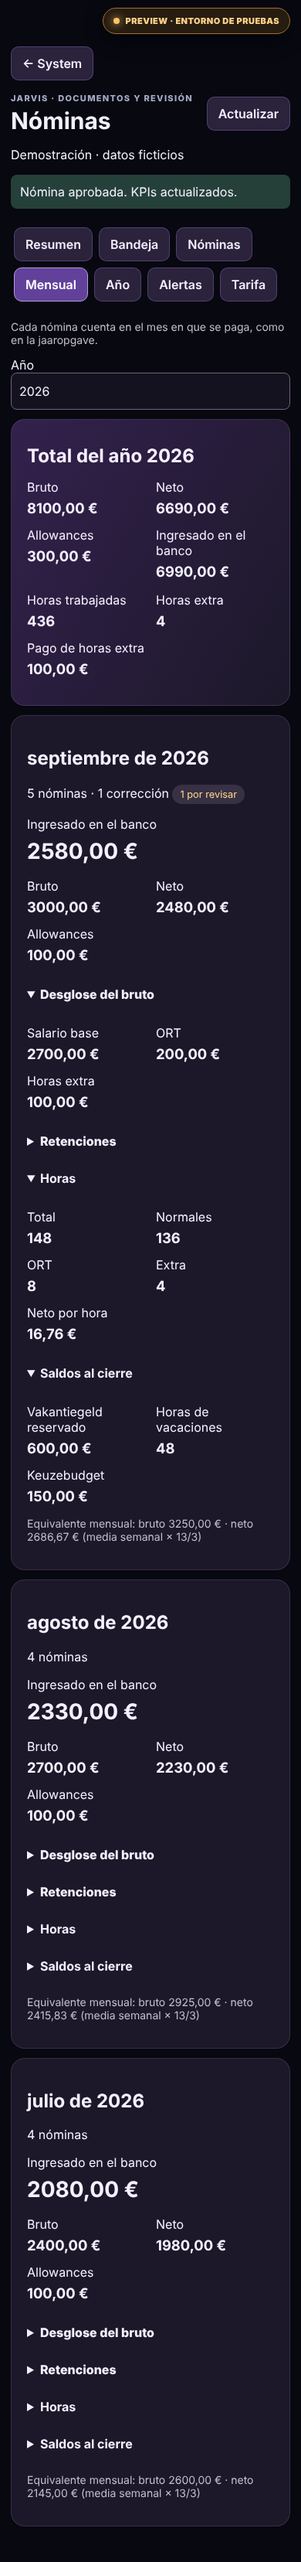
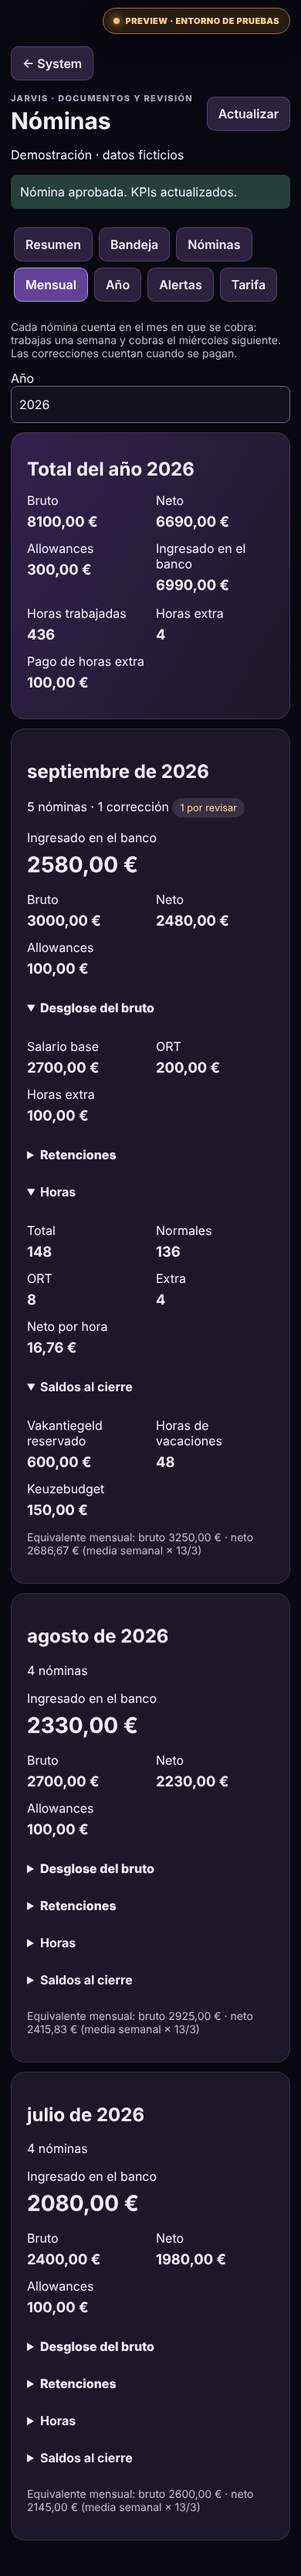
Nóminas 2.8.2: mes por fecha de cobro, correcciones agrupadas, pendientes visibles
- Regla de cobro de Renzo: semana trabajada -> miércoles siguiente (ISO lunes + 9).
  Correcciones: su fecha de pago. Front (payDate) y migración de vistas (ref_date).
- A: correcciones como "Pago adicional" bajo su semana.
- B: resumen con neto confirmado, pendientes sin contar y total con pendientes.
- C: retención por nómina y aviso de tarifa especial en pagos extra.
- Tests: unit (payDate, yearSummary, groupByWeek, taxRate) y réplica PG17 de la migración.

Claude-Session: https://claude.ai/code/session_019zuKrwJHxN8GjEhtNQdRS7

diff --git a/payroll.js b/payroll.js
@@ -5,6 +5,48 @@ const date = value => !value ? 'Sin fecha' : Number.isNaN(new Date(value).valueO
 export const percent = value => value == null ? 'Sin datos' : new Intl.NumberFormat('es-ES',{style:'percent',maximumFractionDigits:2}).format(Number(value));
 export const monthlyRows = (rows, year) => rows.filter(m=>String(m.mes).slice(0,4)===String(year)).sort((a,b)=>String(b.mes).localeCompare(String(a.mes)));
 export const nonzeroRows = rows => rows.filter(([,value])=>value!=null&&Number(value)!==0);
+// Regla de cobro de Renzo: trabaja una semana (ISO) y cobra el miércoles siguiente (lunes ISO + 9 días).
+export function isoWednesdayAfter(year, week){
+ const jan4=new Date(Date.UTC(Number(year),0,4)), d=new Date(jan4);
+ d.setUTCDate(jan4.getUTCDate()-((jan4.getUTCDay()+6)%7)+(Number(week)-1)*7+9);
+ return d.toISOString().slice(0,10);
+}
+// Igual que ref_date en las vistas (migración 20261010030000): nómina semanal normal -> regla; corrección -> su fecha de pago.
+export function payDate(p){
+ if(!p)return null;
+ const weekly=p.period_type==='weekly'&&Number(p.period_year)>0&&Number(p.period_number)>=1&&Number(p.period_number)<=53;
+ const rule=weekly?isoWednesdayAfter(p.period_year,p.period_number):null;
+ if(rule&&!p.is_correction)return rule;
+ const own=p.payment_date?String(p.payment_date).slice(0,10):null;
+ return own||rule||(p.period_end?String(p.period_end).slice(0,10):null)||(p.document_date?String(p.document_date).slice(0,10):null);
+}
+export const isConfirmed = p => ['approved','not_required'].includes(p.review_status)&&p.validation_status!=='failed';
+export const isPendingReview = p => p.review_status==='pending'&&p.validation_status!=='failed';
+export function taxRate(p){
+ const base=Number(p?.loon_voor_loonheffing??p?.taxable_income??p?.gross_salary);
+ return base>0&&p?.loonheffing!=null?Math.round(Number(p.loonheffing)/base*10000)/10000:null;
+}
+// Totales del año según el año de COBRO. Separa confirmadas y pendientes de revisión (no inventa: sin datos -> null).
+export function yearSummary(payslips, year){
+ const inYear=payslips.filter(p=>String(payDate(p)||'').slice(0,4)===String(year)&&p.validation_status!=='failed'&&p.review_status!=='rejected');
+ const sum=(list,key)=>list.length?Math.round(list.reduce((n,p)=>n+Number(p[key]||0),0)*100)/100:null;
+ const confirmed=inYear.filter(isConfirmed), pending=inYear.filter(isPendingReview), normal=confirmed.filter(p=>!p.is_correction);
+ const gross=sum(confirmed,'gross_salary'), tax=sum(confirmed,'loonheffing'), normalHours=sum(normal,'worked_hours');
+ return {
+  confirmed:{count:confirmed.length,net:sum(confirmed,'net_salary'),gross,tax,hours:sum(confirmed,'worked_hours')},
+  pending:{count:pending.length,net:sum(pending,'net_salary'),gross:sum(pending,'gross_salary')},
+  total:{count:confirmed.length+pending.length,net:sum([...confirmed,...pending],'net_salary'),gross:sum([...confirmed,...pending],'gross_salary')},
+  taxRate:gross>0&&tax!=null?Math.round(tax/gross*10000)/10000:null,
+  netPerHour:normalHours>0?Math.round(sum(normal,'net_salary')/normalHours*100)/100:null
+ };
+}
+// Agrupa cada corrección debajo de la nómina normal de la misma semana (si existe).
+export function groupByWeek(payslips){
+ const groups=[], byWeek=new Map();
+ for(const p of payslips.filter(p=>!p.is_correction)){const g={main:p,extras:[]};groups.push(g);if(p.period_label&&!byWeek.has(p.period_label))byWeek.set(p.period_label,g);}
+ for(const p of payslips.filter(p=>p.is_correction)){const g=byWeek.get(p.corrected_period_ref||p.period_label);if(g)g.extras.push(p);else groups.push({main:p,extras:[]});}
+ return groups;
+}
 export function monthlyTotals(rows){
  return Object.fromEntries(['bruto','neto','allowances_netas','cobrado_banco','horas_trabajadas','horas_extra','pago_horas_extra'].map(key=>[key,rows.length&&rows.every(row=>row[key]!=null)?Math.round(rows.reduce((sum,row)=>sum+Number(row[key]),0)*100)/100:null]));
 }
@@ -44,6 +86,7 @@ export function reviewChanges(original, values){
  }
  return changes;
 }
+const payLabel = p => {const d=payDate(p);return d?new Intl.DateTimeFormat('es-ES',{weekday:'short',day:'numeric',month:'short',timeZone:'UTC'}).format(new Date(d+'T00:00:00Z')):'Sin fecha';};
 const chip = value => `<span class="pay-chip pay-${esc(value)}">${esc(labels[value]||value||'Sin estado')}</span>`;
 const empty = '<div class="card"><h2>Aún no hay nóminas</h2><p>Envía el PDF de tu nómina a Jarvis en Telegram y aparecerá aquí en menos de un minuto.</p></div>';
 const uuid = /^[0-9a-f]{8}-[0-9a-f]{4}-[0-9a-f]{4}-[0-9a-f]{4}-[0-9a-f]{12}$/i;
@@ -110,10 +153,10 @@ export function mountPayroll(root, db, getUser, go){
   if(!alive(uid,e)||seq!==detailEpoch)return;loadingDetail=false;render();
  }
  function stats(){
-  const y=all('ytd').find(x=>String(x.year)===year);
+  const y=yearSummary(all('payslips'),year);
   const last=all('payslips')[0], weeks=all('confirmed').filter(x=>x.period_type==='weekly').slice(0,12).reverse();
   const points=weeks.map((p,i)=>`${20+i*(560/Math.max(1,weeks.length-1))},${140-(Number(p.net_salary)||0)/Math.max(1,...weeks.map(x=>Math.abs(Number(x.net_salary)||0)))*100}`).join(' ');
-  return `<div class="card pay-hero"><div class="ey">Año ${esc(year)} · solo nóminas confirmadas</div><h2>${money(y?.net_ytd)}</h2><p>Neto del año</p><div class="pay-grid">${[['Bruto',money(y?.gross_ytd)],['Impuestos',money(y?.tax_ytd)],['Horas',number(y?.hours_ytd)],['Neto / hora',money(y?.effective_net_hourly)]].map(([k,v])=>`<div><small>${k}</small><strong>${v}</strong></div>`).join('')}</div></div>
+  return `<div class="card pay-hero" data-year-summary><div class="ey">Año ${esc(year)} · por fecha de cobro · nóminas confirmadas</div><h2>${money(y.confirmed.net)}</h2><p>Neto confirmado (${esc(number(y.confirmed.count))} nóminas)</p>${y.pending.count?`<p class="pay-pending-note" data-pending-total>Pendientes sin contar: <b>${money(y.pending.net)}</b> neto (${esc(number(y.pending.count))} ${y.pending.count===1?'nómina':'nóminas'} por revisar) · Con pendientes: <b>${money(y.total.net)}</b></p>`:''}<div class="pay-grid">${[['Bruto',money(y.confirmed.gross)],['Impuestos',`${money(y.confirmed.tax)} · ${percent(y.taxRate)}`],['Horas',number(y.confirmed.hours)],['Neto / hora',money(y.netPerHour)]].map(([k,v])=>`<div><small>${k}</small><strong>${v}</strong></div>`).join('')}</div><p class="pay-muted">Cada nómina cuenta cuando se cobra: trabajas una semana y cobras el miércoles siguiente.</p></div>
    <div class="pay-grid">${[['payslips','Por revisar',all('payslips').filter(p=>p.review_status==='pending').length],['alerts','Alertas abiertas',all('anomalies').filter(a=>a.status==='open').length],['inbox','Documentos con error',all('documents').filter(d=>d.status==='failed').length]].map(([t,k,v])=>`<button class="card" data-tab="${t}">${k}<strong>${v}</strong></button>`).join('')}</div>
    <h2>Última nómina</h2>${last?payslipCard(last):empty}<div class="card"><h2>Neto · últimas 12 semanas recibidas</h2>${weeks.length?`<svg viewBox="0 0 600 180" role="img" aria-label="Evolución del salario neto"><polyline fill="none" stroke="#bca2ff" stroke-width="3" points="${points}"/></svg><details><summary>Ver valores del gráfico</summary>${weeks.map(p=>`<p>${esc(p.period_label)}: ${money(p.net_salary)}</p>`).join('')}</details>`:'Sin datos confirmados'}</div>
    <h2>Evolución mensual</h2>${all('monthly').filter(m=>String(m.month).startsWith(year)).map(m=>`<div class="card"><b>${esc(date(m.month))}</b><div class="pay-grid"><span>Bruto ${money(m.gross)}</span><span>Neto ${money(m.net)}</span><span>Impuestos ${money(m.tax)}</span><span>${number(m.hours)} horas</span></div></div>`).join('')||'<p>Sin datos mensuales confirmados.</p>'}`;
@@ -125,12 +168,12 @@ export function mountPayroll(root, db, getUser, go){
   const grid=rows=>`<dl class="pay-grid pay-month-metrics">${rows.map(([label,value])=>`<div><dt>${esc(label)}</dt><dd>${esc(value)}</dd></div>`).join('')}</dl>`;
   const amounts=rows=>grid(rows.map(([label,value])=>[label,money(value)]));
   const fold=(title,content,index)=>`<div class="pay-month-desktop"><h3>${esc(title)}</h3>${content}</div><details class="pay-month-mobile" ${index===0?'open':''}><summary>${esc(title)}</summary>${content}</details>`;
-  return `<section class="pay-monthly"><p class="pay-muted">Cada nómina cuenta en el mes en que se paga, como en la jaaropgave.</p>${years.length?`<label>Año <select data-monthly-year>${years.map(y=>`<option value="${esc(y)}" ${y===monthlyYear?'selected':''}>${esc(y)}</option>`).join('')}</select></label>`:''}
+  return `<section class="pay-monthly"><p class="pay-muted">Cada nómina cuenta en el mes en que se cobra: trabajas una semana y cobras el miércoles siguiente. Las correcciones cuentan cuando se pagan.</p>${years.length?`<label>Año <select data-monthly-year>${years.map(y=>`<option value="${esc(y)}" ${y===monthlyYear?'selected':''}>${esc(y)}</option>`).join('')}</select></label>`:''}
    ${!months.length?`<div class="card">${errors.monthly_nl?'No se pudieron cargar los datos mensuales. Pulsa Actualizar para reintentar.':'Sin datos mensuales.'}</div>`:`<article class="card pay-hero" data-monthly-total><h2>Total del año ${esc(monthlyYear)}</h2>${amounts([['Bruto',totals.bruto],['Neto',totals.neto],['Allowances',totals.allowances_netas],['Ingresado en el banco',totals.cobrado_banco]])}${grid([['Horas trabajadas',number(totals.horas_trabajadas)],['Horas extra',number(totals.horas_extra)],['Pago de horas extra',money(totals.pago_horas_extra)]])}</article>
    ${months.map((m,index)=>`<article class="card" data-month="${esc(m.mes)}"><h2>${esc(new Intl.DateTimeFormat('es-ES',{month:'long',year:'numeric',timeZone:'UTC'}).format(new Date(m.mes)))}</h2><p>${esc(number(m.pagos))} nóminas${Number(m.correcciones)>0?` · ${esc(number(m.correcciones))} ${Number(m.correcciones)===1?'corrección':'correcciones'}`:''} ${Number(m.pendientes_revision)>0?`<span class="pay-chip pay-pending">${esc(number(m.pendientes_revision))} por revisar</span>`:''}</p>
     <div class="pay-bank"><span>Ingresado en el banco</span><strong>${esc(money(m.cobrado_banco))}</strong></div>${amounts([['Bruto',m.bruto],['Neto',m.neto],['Allowances',m.allowances_netas]])}
     <details><summary>Desglose del bruto</summary>${amounts(nonzeroRows([['Salario base',m.salario_base],['ORT',m.toeslagen],['Horas extra',m.pago_horas_extra],['Feestdagen',m.feestdagen],['Vakantiegeld',m.vakantiegeld_pagado],['Vacaciones disfrutadas',m.verlof_pagado],['Baja',m.ziekte_pagado]]))}</details>
-    <details><summary>Retenciones</summary>${amounts([['Loonheffing',m.loonheffing],['Pensioen',m.pensioen],['Premies',m.premies]])}${grid([['Tipo de retención',percent(m.tipo_retencion)]])}</details>
+    <details><summary>Retenciones</summary>${amounts([['Loonheffing',m.loonheffing],['Pensioen',m.pensioen],['Premies',m.premies]])}${grid([['Tipo de retención',percent(m.tipo_retencion)]])}${Number(m.correcciones)>0?'<p class="pay-muted">Incluye pagos extra, que tributan con la tarifa especial.</p>':''}</details>
     ${fold('Horas',grid([['Total',number(m.horas_trabajadas)],['Normales',number(m.horas_normales)],['ORT',number(m.horas_ort)],['Extra',number(m.horas_extra)],['Neto por hora',money(m.neto_por_hora)]]),index)}
     ${fold('Saldos al cierre',grid([['Vakantiegeld reservado',money(m.vakantiegeld_reservado)],['Horas de vacaciones',number(m.vakantiedagen_uren)],['Keuzebudget',money(m.keuzebudget_saldo)]]),index)}
     <p class="pay-muted">Equivalente mensual: bruto ${esc(money(m.bruto_mensual_equivalente))} · neto ${esc(money(m.neto_mensual_equivalente))} (media semanal × 13/3)</p></article>`).join('')}`}</section>`;
@@ -150,14 +193,14 @@ export function mountPayroll(root, db, getUser, go){
     <p class="pay-muted">Valores informativos. La jaaropgave oficial la emite SD Worx a principios del año siguiente.</p></article>`;
   }).join('')||`<div class="card">${errors.year_nl?'No se pudieron cargar los datos anuales. Pulsa Actualizar para reintentar.':'Sin datos anuales.'}</div>`}</section>`;
  }
- function payslipCard(p){return `<button class="card pay-row" data-payslip="${esc(p.id)}"><b>${esc(p.period_label||'Periodo sin identificar')}</b><span>${esc(employerName(p))}</span><strong>${money(p.net_salary)} neto</strong><span>${money(p.gross_salary)} bruto</span>${chip(p.review_status)}</button>`;}
+ function payslipCard(p,parent){const rate=taxRate(p),extra=Boolean(p.is_correction);return `<button class="card pay-row${parent?' pay-extra':''}" data-payslip="${esc(p.id)}"${extra?' data-extra':''}><b>${extra?`${parent?'↳ ':''}Pago adicional · corrección de ${esc(p.corrected_period_ref||p.period_label||'semana sin identificar')}`:esc(p.period_label||'Periodo sin identificar')}</b><span>${esc(employerName(p))} · Cobro ${esc(payLabel(p))}</span><strong>${money(p.net_salary)} neto</strong><span>${money(p.gross_salary)} bruto · Retención ${esc(percent(rate))}${extra&&rate!=null?' (tarifa especial, pago extra)':''}</span>${chip(p.review_status)}</button>`;}
  function alerts(items){return items.map(a=>`<article class="card"><div>${chip(a.severity)} ${chip(a.status)}</div><h3>${esc(a.title||a.anomaly_type)}</h3><p>${esc(typeof a.details==='object'?JSON.stringify(a.details):a.details)}</p>${a.payslip_id?`<button data-payslip="${esc(a.payslip_id)}">Ver nómina</button>`:''}${['open','acknowledged'].includes(a.status)?`<button data-alert="${esc(a.id)}" data-state="resolved" ${saving?'disabled':''}>Resolver</button><button data-alert="${esc(a.id)}" data-state="dismissed" ${saving?'disabled':''}>Descartar</button>`:''}</article>`).join('')||'<div class="card">No hay alertas pendientes.</div>';}
  function detailView(){
   if(loadingDetail)return '<p role="status">Cargando detalle…</p>';
   if(!detail)return '';
   const {p,doc}=detail;
   const fields=Object.entries(groups).map(([title,keys])=>{const present=keys.split(' ').filter(k=>p?.[k]!=null&&p[k]!=='');return present.length?`<div class="card"><h3>${title}</h3><dl class="pay-fields">${present.map(k=>`<div class="${p.field_confidence?.[k]!=null&&p.field_confidence[k]<.85?'pay-low':''}"><dt>${esc(names[k])}${p.field_confidence?.[k]!=null&&p.field_confidence[k]<.85?' · revisar':''}</dt><dd>${esc(textFields.has(k)?k==='payment_date'?date(p[k]):p[k]:k.includes('hours')?number(p[k]):money(p[k]))}</dd></div>`).join('')}</dl></div>`:'';}).join('');
-  return `<button data-back>← Volver</button>${detail.issues.length?`<p role="alert">Algunos detalles no están disponibles: ${esc(detail.issues.join(' · '))}</p>`:''}<div class="card"><h2>${esc(p?.period_label||doc?.original_file_name)}</h2>${p?`<p>${esc(employerName(p))} · Pago ${esc(date(p.payment_date))}</p>${chip(p.validation_status)} ${chip(p.review_status)}<p>Confianza: ${p.confidence_overall==null?'Sin datos':number(p.confidence_overall*100)+'%'}</p><p>${esc(p.summary)}</p>`:''}${doc?`<p>${esc(doc.original_file_name)} · ${chip(doc.status)}</p>`:''}${doc?.storage_path_archive||doc?.storage_path_raw||demo?`<button data-pdf ${pdfBusy?'disabled':''}>${pdfBusy?'Preparando…':'Ver PDF'}</button>`:'<p>PDF aún no disponible.</p>'}${pdfUrl?`<a class="pay-button" href="${esc(pdfUrl)}" target="_blank" rel="noopener">Abrir PDF</a>`:''}</div>
+  return `<button data-back>← Volver</button>${detail.issues.length?`<p role="alert">Algunos detalles no están disponibles: ${esc(detail.issues.join(' · '))}</p>`:''}<div class="card"><h2>${esc(p?.period_label||doc?.original_file_name)}</h2>${p?`<p>${esc(employerName(p))} · Cobro ${esc(date(payDate(p)))}${p.is_correction?' · pago adicional (corrección)':''}</p><p data-tax-rate>Retención: ${esc(percent(taxRate(p)))}${p.is_correction?' · los pagos extra tributan con la tarifa especial (bijzonder tarief), por eso el porcentaje es más alto':''}</p>${chip(p.validation_status)} ${chip(p.review_status)}<p>Confianza: ${p.confidence_overall==null?'Sin datos':number(p.confidence_overall*100)+'%'}</p><p>${esc(p.summary)}</p>`:''}${doc?`<p>${esc(doc.original_file_name)} · ${chip(doc.status)}</p>`:''}${doc?.storage_path_archive||doc?.storage_path_raw||demo?`<button data-pdf ${pdfBusy?'disabled':''}>${pdfBusy?'Preparando…':'Ver PDF'}</button>`:'<p>PDF aún no disponible.</p>'}${pdfUrl?`<a class="pay-button" href="${esc(pdfUrl)}" target="_blank" rel="noopener">Abrir PDF</a>`:''}</div>
    ${p?fields:''}${p?`<div class="card"><h3>Datos NL adicionales</h3>${['loonheffingskorting_applied','bijzonder_tarief_pct','tabel_type','reserveringen'].filter(k=>p[k]!=null).map(k=>`<p>${esc(k)}: ${esc(typeof p[k]==='object'?JSON.stringify(p[k]):p[k])}</p>`).join('')||'Sin datos adicionales'}</div>`:''}
    ${p&&p.review_status==='pending'?reviewForm(p):''}
    ${p?`<div class="card"><h3>Líneas originales</h3><div class="pay-table"><table><thead><tr><th>Concepto</th><th>Tipo</th><th>Cantidad</th><th>Tarifa</th><th>Importe</th></tr></thead><tbody>${(detail.lines||[]).map(l=>`<tr><td>${esc(l.label_original)} <small>${esc(l.code)} ${esc(l.period_ref)}</small></td><td>${esc(l.category)}</td><td>${number(l.quantity)}</td><td>${money(l.rate)}</td><td>${money(l.amount)}</td></tr>`).join('')}</tbody></table></div></div><div class="card"><h3>Validaciones</h3>${(detail.validations||[]).map(v=>`<p>${v.passed?'✓':'✗'} ${esc(v.rule_code)} · ${esc(v.severity)} · ${esc(v.message)}<br><small>Esperado ${esc(v.expected)} · Actual ${esc(v.actual)} · Diferencia ${esc(v.difference)}</small></p>`).join('')||'Sin validaciones'}</div>${alerts(all('anomalies').filter(a=>a.payslip_id===p.id))}<details class="card"><summary>Historial de versiones (${(detail.versions||[]).length})</summary>${(detail.versions||[]).map(v=>`<pre>${esc(JSON.stringify(v,null,2))}</pre>`).join('')}</details>`:''}
@@ -166,9 +209,9 @@ export function mountPayroll(root, db, getUser, go){
  function reviewForm(p){return `<form data-review class="card"><h3>Revisión de nómina</h3><p>Comprueba los valores contra el PDF. Las correcciones se guardan con la aprobación.</p><fieldset ${saving?'disabled':''}>${Object.entries(groups).map(([title,keys])=>`<details ${title==='Neto'?'open':''}><summary>${title}</summary><div class="pay-grid">${keys.split(' ').map(k=>`<label class="${p.field_confidence?.[k]<.85?'pay-low':''}">${esc(names[k])}<input name="${k}" type="${k==='payment_date'?'date':textFields.has(k)?'text':'number'}" ${textFields.has(k)?'':'step="any"'} value="${esc(draft?.[k]??p[k]??'')}"><span>Tipo de error</span><select name="error_${k}"><option value="">Sin especificar</option>${Object.entries({misread:'Lectura incorrecta',missing:'Faltante',wrong_field:'Campo equivocado',format:'Formato',hallucination:'Inventado',sign:'Signo',other:'Otro'}).map(([v,t])=>`<option value="${v}" ${draft?.['error_'+k]===v?'selected':''}>${t}</option>`).join('')}</select></label>`).join('')}</div></details>`).join('')}<label>Nota de revisión<textarea name="note" maxlength="4000">${esc(draft?.note||'')}</textarea></label><div class="pay-actions"><button type="submit" value="approve">Aprobar</button><button type="submit" value="correct">Guardar correcciones y aprobar</button><button type="submit" value="reject">Rechazar</button></div></fieldset></form>`;}
  function render(){
   if(!active)return;
-  const years=[...new Set([String(new Date().getFullYear()),...all('payslips').map(p=>String(p.period_year)),...all('ytd').map(y=>String(y.year))])].filter(y=>/^\d{4}$/.test(y)).sort().reverse();
+  const years=[...new Set([String(new Date().getFullYear()),...all('payslips').map(p=>String(p.period_year)),...all('payslips').map(p=>String(payDate(p)||'').slice(0,4)),...all('ytd').map(y=>String(y.year))])].filter(y=>/^\d{4}$/.test(y)).sort().reverse();
   root.innerHTML=`<button class="microapp-back" data-home>← System</button><div class="top"><div><div class="ey">Jarvis · Documentos y revisión</div><h1>Nóminas</h1></div><button data-refresh ${busy?'disabled':''}>Actualizar</button></div><p data-live role="status"></p><div data-notice role="status" aria-live="polite">${esc(message)}</div>${error?`<p role="alert">${esc(error)}</p>`:''}${Object.keys(errors).length?`<div class="card" role="alert"><b>No se pudieron actualizar algunos datos</b><p>${esc(Object.entries(errors).map(([k,v])=>`${k}: ${v}`).join(' · '))}</p><p>Los datos anteriores pueden estar desactualizados.</p></div>`:''}<nav class="pay-tabs" aria-label="Secciones de Nóminas">${Object.entries({summary:'Resumen',inbox:'Bandeja',payslips:'Nóminas',monthly:'Mensual',year:'Año',alerts:'Alertas',rates:'Tarifa'}).map(([k,v])=>`<button data-tab="${k}" aria-pressed="${tab===k&&!selected}">${v}</button>`).join('')}</nav>
-   ${selected?detailView():!ready?'<p role="status">Cargando nóminas…</p>':`${['summary','payslips'].includes(tab)?`<label>Año <select data-year>${years.map(y=>`<option ${y===year?'selected':''}>${y}</option>`).join('')}</select></label>`:''}${tab==='summary'?stats():tab==='monthly'?monthlyView():tab==='year'?yearView():tab==='inbox'?all('documents').map(d=>`<button class="card pay-row" data-document="${esc(d.id)}"><b>${esc(d.original_file_name||'Documento')}</b><span>${d.source==='telegram'?'✈ ':d.source==='drive'?'▱ ':''}${esc(d.source)} · ${esc(date(d.created_at))}</span>${chip(d.status)}<span>${esc(all('payslips').find(p=>p.document_id===d.id)?.period_label||'Periodo pendiente')} · ${number(d.attempt_count??0)} intentos</span>${d.last_error_message?`<span>${esc(d.last_error_code)}: ${esc(d.last_error_message)}</span>`:''}${d.duplicate_of?`<small>Duplicado de ${esc(d.duplicate_of)}</small>`:''}</button>`).join('')||empty:tab==='payslips'?`<label>Empresa <select data-employer><option value="">Todas</option>${all('employers').map(e=>`<option value="${esc(e.id)}" ${e.id===employer?'selected':''}>${esc(e.name)}</option>`).join('')}</select></label>${all('payslips').filter(p=>String(p.period_year)===year&&(!employer||p.employer_id===employer)).map(payslipCard).join('')||empty}`:tab==='alerts'?alerts(all('anomalies').filter(a=>['open','acknowledged'].includes(a.status))):all('rates').map(r=>`<div class="card"><h3>${esc(r.employer_code)}</h3><strong>${money(r.hourly_rate)} / hora</strong><p>${esc(r.from_period)} → ${esc(r.to_period)} · ${number(r.payslips)} nóminas</p></div>`).join('')||'<div class="card">Sin historial de tarifas confirmado.</div>'}`}`;
+   ${selected?detailView():!ready?'<p role="status">Cargando nóminas…</p>':`${['summary','payslips'].includes(tab)?`<label>Año <select data-year>${years.map(y=>`<option ${y===year?'selected':''}>${y}</option>`).join('')}</select></label>`:''}${tab==='summary'?stats():tab==='monthly'?monthlyView():tab==='year'?yearView():tab==='inbox'?all('documents').map(d=>`<button class="card pay-row" data-document="${esc(d.id)}"><b>${esc(d.original_file_name||'Documento')}</b><span>${d.source==='telegram'?'✈ ':d.source==='drive'?'▱ ':''}${esc(d.source)} · ${esc(date(d.created_at))}</span>${chip(d.status)}<span>${esc(all('payslips').find(p=>p.document_id===d.id)?.period_label||'Periodo pendiente')} · ${number(d.attempt_count??0)} intentos</span>${d.last_error_message?`<span>${esc(d.last_error_code)}: ${esc(d.last_error_message)}</span>`:''}${d.duplicate_of?`<small>Duplicado de ${esc(d.duplicate_of)}</small>`:''}</button>`).join('')||empty:tab==='payslips'?`<label>Empresa <select data-employer><option value="">Todas</option>${all('employers').map(e=>`<option value="${esc(e.id)}" ${e.id===employer?'selected':''}>${esc(e.name)}</option>`).join('')}</select></label>${groupByWeek(all('payslips').filter(p=>String(p.period_year)===year&&(!employer||p.employer_id===employer))).map(g=>payslipCard(g.main)+g.extras.map(x=>payslipCard(x,g.main)).join('')).join('')||empty}`:tab==='alerts'?alerts(all('anomalies').filter(a=>['open','acknowledged'].includes(a.status))):all('rates').map(r=>`<div class="card"><h3>${esc(r.employer_code)}</h3><strong>${money(r.hourly_rate)} / hora</strong><p>${esc(r.from_period)} → ${esc(r.to_period)} · ${number(r.payslips)} nóminas</p></div>`).join('')||'<div class="card">Sin historial de tarifas confirmado.</div>'}`}`;
   renderStatus();
  }
  root.addEventListener('input',event=>{const form=event.target.closest('[data-review]');if(form)draft=Object.fromEntries(new FormData(form));});

diff --git a/payroll.css b/payroll.css
@@ -7,3 +7,4 @@
 #payroll .pay-month-mobile{display:none}@media(max-width:640px){#payroll .pay-month-desktop{display:none}#payroll .pay-month-mobile{display:block}#payroll .pay-month-mobile>summary{font-weight:700}}
 
 #payroll .pay-yearly{color:#f5f0ff;min-width:0}#payroll .pay-yearly .pay-grid{grid-template-columns:repeat(auto-fit,minmax(min(180px,100%),1fr))}#payroll .pay-yearly h2{font-size:1.5rem}#payroll .pay-year-official{padding:16px;border-radius:12px;background:#33214d}#payroll .pay-year-official h3{margin-top:0}#payroll .pay-year-status{padding:14px;border-radius:10px;border:1px solid currentColor}#payroll .pay-year-incomplete{background:#3c3020;color:#ffda8d}#payroll .pay-year-complete{background:#20372c;color:#a1e5c6}#payroll .pay-year-unknown{background:#383044;color:#f5f0ff}
+#payroll .pay-extra{margin-left:18px;width:calc(100% - 18px);border-left:3px solid #8c6fd1;background:#211b30}#payroll .pay-pending-note{padding:10px 12px;border-radius:10px;background:#3a2f1a;color:#ffe3a8}

diff --git a/sw.js b/sw.js
@@ -1,4 +1,4 @@
-const CACHE='renzo-hub-cloud-v6.0-unificada';
+const CACHE='renzo-hub-cloud-v6.1-nominas-cobro';
 const CORE=['/payroll.js','/payroll.css','/payroll-demo.js','/','/app.js','/profile.js','/phase1.js','/gym.js','/news.js','/world.js','/world-extensions.js','/jarvis-ui.js','/manifest.webmanifest','/release.json','/assets/renzo-hub-icon.svg','/assets/icon-180.png','/assets/icon-192.png','/assets/icon-512.png'];
 self.addEventListener('install',e=>e.waitUntil(caches.open(CACHE).then(c=>c.addAll(CORE)).then(()=>fetch('/api/supabase-config',{cache:'no-store'}).then(r=>r.ok?caches.open(CACHE).then(c=>c.put('/api/supabase-config',r)):null).catch(()=>null))));
 self.addEventListener('message',e=>{if(e.data?.type==='SKIP_WAITING')self.skipWaiting();});

diff --git a/RENZO-HUB-CURRENT.md b/RENZO-HUB-CURRENT.md
@@ -185,6 +185,20 @@ Ejecutar `./scripts/renzo-hub status` desde el repositorio. Ninguna IA debe edit
 
 Ver `docs/PAYROLL-CHANGELOG.md` para limitaciones y peticiones a Claude. No se incorporan los cambios locales sin commit de la tarea e2e/fase1-2.6.2.
 
+## Nóminas 2.8.2 (2026-10-10): mes por fecha de cobro, correcciones agrupadas y pendientes visibles
+
+Petición de Renzo: "trabajo una semana y cobro lo que hice esa semana el siguiente miércoles"; totales confusos (~10.000) y nóminas "replicadas".
+Diagnóstico con datos reales (solo lectura): 24 nóminas SD Worx, sin duplicados. Las 3 semanas dobles (W22, W24, W34) son correcciones con 0 horas e importes pequeños (pagos adicionales). El total mostrado solo sumaba las 19 confirmadas; 5 pendientes de revisión no contaban. El porcentaje alto (≈37 %) es la tarifa especial de los pagos extra.
+
+| Cambio | Dónde |
+|---|---|
+| Regla de cobro: nómina semanal normal = miércoles siguiente a la semana ISO; corrección = su fecha de pago | `payroll.js` (`payDate`) y migración `supabase/pending/20261010030000_payroll_pay_date_rule.sql` (vistas confirmed, monthly_nl, jaaropgave_nl; solo cambia `ref_date`) |
+| A · Correcciones agrupadas bajo su semana como "Pago adicional" | `payroll.js` (`groupByWeek`, `payslipCard`) |
+| B · Resumen: neto confirmado + "Pendientes sin contar" + total con pendientes, por año de cobro | `payroll.js` (`yearSummary`) |
+| C · Retención por nómina; aviso de tarifa especial en pagos extra | `payroll.js` (`taxRate`), detalle y mensual |
+
+Pruebas: unit 28/28, smoke 15/15, E2E autenticado 22/22, E2E Nóminas (Chromium) OK, deploy-surface 3/3, `tools/db-replica/pay_date_test.sh` TODO OK (fechas, agrupación mensual, cambio de año, vista dependiente, security_invoker, permisos, idempotencia, rollback).
+
 ## Unificación 2.8.1 (2026-10-09): Nóminas 2.8.0 + estabilización 2.6.2
 
 Rama `feature/unificacion-2.8.1` = `feature/fase1` + merge de `e35f64a` (Nóminas 2.8.0, lo que sirve producción). Conflictos solo en `release.json`, `sw.js` y `tests/e2e/smoke.mjs`, resueltos conservando ambos lados (bypass de Vercel + comprobación de entorno). Caché `renzo-hub-cloud-v6.0-unificada`.
